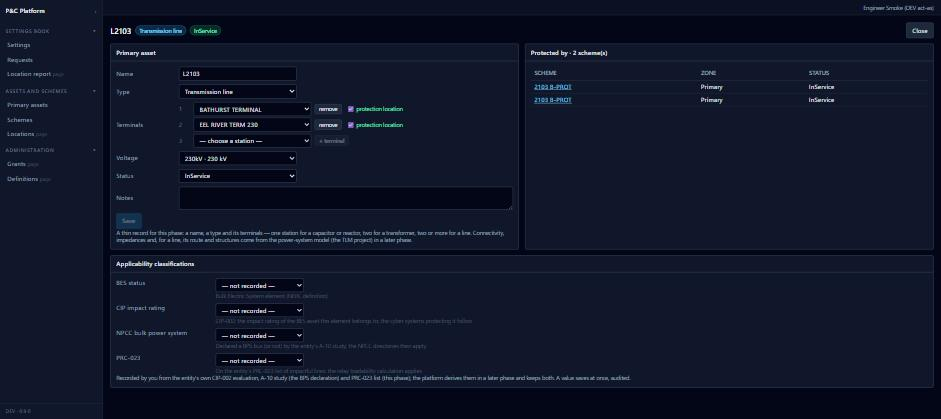
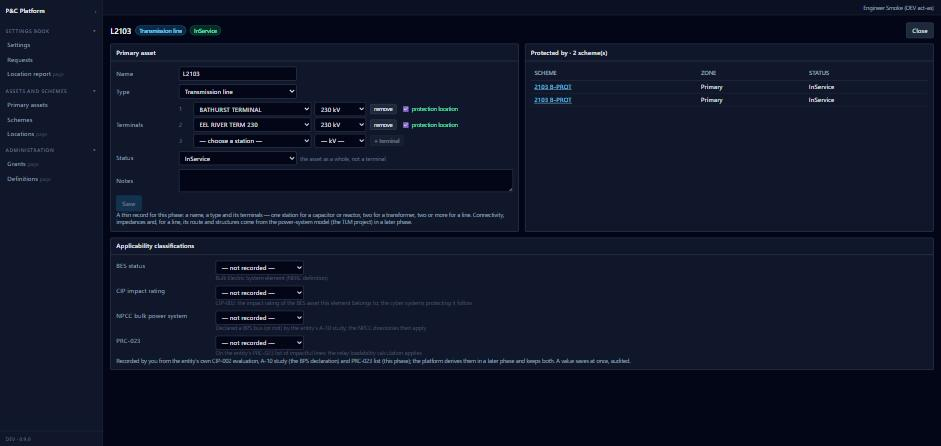
#170: the voltage is a terminal's (asset.AssetTerminal.VoltageClassCode, a drop-down beside each terminal); the asset-level voltage leaves the primary-asset form; the status stays the asset's
Owner, 2026-09-16: a transformer's terminals differ in voltage; '230kV · 230 kV' was one voltage shown twice. The lines'
terminals carry the voltage the owner had set on the asset.

Claude-Session: https://claude.ai/code/session_013TsNC7gxoDauT1p8dURK81

diff --git a/src/PnC.Web/src/screens/PrimaryAssetScreen.tsx b/src/PnC.Web/src/screens/PrimaryAssetScreen.tsx
@@ -71,7 +71,10 @@ const STATUSES = ['Planned', 'InService', 'OutOfService', 'Retired']
 function Terminals({ r, readOnly = false }: { r: Row; readOnly?: boolean }) {
   const qc = useQueryClient()
   const stationsQ = useViewAll('location', 'vNode', { NodeTypeCode: 'Station' }, 'Name')
+  const voltagesQ = useViewAll('ref', 'vVoltageClass', {}, 'DisplayOrder')
   const q = useViewAll('asset', 'vAssetTerminal', { AssetEntityId: s(r.EntityId) }, 'TerminalNo')
+  const [addVolt, setAddVolt] = useState('')
+  const voltageOptions = (voltagesQ.data ?? []).map((v) => <option key={s(v.VoltageClassCode)} value={s(v.VoltageClassCode)}>{v.NominalKv != null ? `${Number(v.NominalKv)} kV` : s(v.VoltageClassCode)}</option>)
   const [msg, setMsg] = useState<string | null>(null); const [adding, setAdding] = useState(''); const [busy, setBusy] = useState(false)
   const rows = q.data ?? []
   const done = (text: string) => { setMsg(text); qc.invalidateQueries({ queryKey: ['view', 'asset', 'vAssetTerminal'] }); qc.invalidateQueries({ queryKey: ['view', 'asset', 'vPrimaryAsset'] }) }
@@ -82,15 +85,16 @@ function Terminals({ r, readOnly = false }: { r: Row; readOnly?: boolean }) {
   const protectedHere = (id: unknown) => protectedIds.includes(s(id).toLowerCase())
   const strays = protectedIds.filter((id) => !rows.some((x) => s(x.StationNodeEntityId).toLowerCase() === id)).map(name)
   const mark = (on: boolean) => <span className={`ml-1 inline-flex items-center gap-1 text-xs ${on ? 'text-emerald-300' : 'text-slate-600'}`} title={on ? 'a scheme at this station protects the asset' : 'no scheme at this station names the asset'}><span aria-hidden="true">{on ? '☑' : '☐'}</span> protection location</span>
-  if (readOnly) return <span>{rows.length ? rows.map((x, i) => <span key={s(x.EntityId)}>{i > 0 ? ' – ' : ''}{name(x.StationNodeEntityId)}{mark(protectedHere(x.StationNodeEntityId))}</span>) : '—'}{strays.length > 0 && <span className="ml-2 text-xs text-amber-300">also protected from {strays.join(', ')} — not a terminal</span>}</span>
+  if (readOnly) return <span>{rows.length ? rows.map((x, i) => <span key={s(x.EntityId)}>{i > 0 ? ' – ' : ''}{name(x.StationNodeEntityId)}{x.VoltageClassCode ? <span className="ml-1 text-xs text-slate-400">{s(x.VoltageClassCode)}</span> : null}{mark(protectedHere(x.StationNodeEntityId))}</span>) : '—'}{strays.length > 0 && <span className="ml-2 text-xs text-amber-300">also protected from {strays.join(', ')} — not a terminal</span>}</span>
   return (
     <div className="space-y-1">
       {rows.map((x) => (
         <div key={s(x.EntityId)} className="flex items-center gap-2">
           <span className="w-6 text-xs text-slate-500">{s(x.TerminalNo)}</span>
-          <select className={`${inputClass} w-64`} value={s(x.StationNodeEntityId).toLowerCase()} disabled={busy} onChange={(e) => void run(() => proc('asset', 'AssetTerminal_Revise', { EntityId: x.EntityId, AssetEntityId: r.EntityId, TerminalNo: x.TerminalNo, StationNodeEntityId: e.target.value }), `terminal ${s(x.TerminalNo)}: ${name(e.target.value)}.`)}>
+          <select className={`${inputClass} w-64`} value={s(x.StationNodeEntityId).toLowerCase()} disabled={busy} onChange={(e) => void run(() => proc('asset', 'AssetTerminal_Revise', { EntityId: x.EntityId, AssetEntityId: r.EntityId, TerminalNo: x.TerminalNo, StationNodeEntityId: e.target.value, VoltageClassCode: x.VoltageClassCode ?? null }), `terminal ${s(x.TerminalNo)}: ${name(e.target.value)}.`)}>
             {(stationsQ.data ?? []).map((n) => <option key={s(n.EntityId)} value={s(n.EntityId).toLowerCase()}>{s(n.Name)}</option>)}
           </select>
+          <select className={`${inputClass} w-28`} value={s(x.VoltageClassCode)} disabled={busy} title="the voltage at this terminal" onChange={(e) => void run(() => proc('asset', 'AssetTerminal_Revise', { EntityId: x.EntityId, AssetEntityId: r.EntityId, TerminalNo: x.TerminalNo, StationNodeEntityId: x.StationNodeEntityId, VoltageClassCode: e.target.value || null }), `terminal ${s(x.TerminalNo)}: ${e.target.value || 'no voltage'}.`)}><option value="">— kV —</option>{voltageOptions}</select>
           <Button kind="mini" disabled={busy} onClick={() => void run(() => proc('asset', 'AssetTerminal_SoftDelete', { EntityId: x.EntityId }), `terminal ${s(x.TerminalNo)} removed.`)}>remove</Button>
           {mark(protectedHere(x.StationNodeEntityId))}
         </div>))}
@@ -98,7 +102,8 @@ function Terminals({ r, readOnly = false }: { r: Row; readOnly?: boolean }) {
       <div className="flex items-center gap-2">
         <span className="w-6 text-xs text-slate-500">{nextNo}</span>
         <select className={`${inputClass} w-64`} value={adding} disabled={busy} onChange={(e) => setAdding(e.target.value)}><option value="">— choose a station —</option>{(stationsQ.data ?? []).map((n) => <option key={s(n.EntityId)} value={s(n.EntityId).toLowerCase()}>{s(n.Name)}</option>)}</select>
-        <Button kind="mini" disabled={!adding || busy} onClick={() => void run(async () => { await proc('asset', 'AssetTerminal_Add', { AssetEntityId: r.EntityId, TerminalNo: nextNo, StationNodeEntityId: adding }); setAdding('') }, `terminal ${nextNo}: ${name(adding)}.`)}>+ terminal</Button>
+        <select className={`${inputClass} w-28`} value={addVolt} disabled={busy} title="the voltage at this terminal" onChange={(e) => setAddVolt(e.target.value)}><option value="">— kV —</option>{voltageOptions}</select>
+        <Button kind="mini" disabled={!adding || busy} onClick={() => void run(async () => { await proc('asset', 'AssetTerminal_Add', { AssetEntityId: r.EntityId, TerminalNo: nextNo, StationNodeEntityId: adding, VoltageClassCode: addVolt || null }); setAdding(''); setAddVolt('') }, `terminal ${nextNo}: ${name(adding)}${addVolt ? ' ' + addVolt : ''}.`)}>+ terminal</Button>
       </div>
       {msg && <div className="text-xs text-slate-400">{msg}</div>}
       {!rows.length && !q.isPending && <div className="text-xs text-slate-500">No terminal yet — a capacitor or reactor has one, a transformer two, a line two or more.</div>}
@@ -112,8 +117,7 @@ function Terminals({ r, readOnly = false }: { r: Row; readOnly?: boolean }) {
 function AssetForm({ r }: { r: Row }) {
   const qc = useQueryClient()
   const typesQ = useViewAll('ref', 'vAssetType', { AssetClassCode: 'Primary' })
-  const voltagesQ = useViewAll('ref', 'vVoltageClass', {})
-  const [f, setF] = useState({ Name: s(r.Name), AssetTypeCode: s(r.AssetTypeCode), VoltageClassCode: s(r.VoltageClassCode), Status: s(r.Status), Notes: s(r.Notes) })   // the terminals are t1 / t2 below
+  const [f, setF] = useState({ Name: s(r.Name), AssetTypeCode: s(r.AssetTypeCode), VoltageClassCode: s(r.VoltageClassCode), Status: s(r.Status), Notes: s(r.Notes) })   // the voltage is each terminal's (Terminals); the asset's own column is carried unchanged
   const [msg, setMsg] = useState<{ text: string; bad?: boolean } | null>(null); const [busy, setBusy] = useState(false)
   const dirty = f.Name !== s(r.Name) || f.AssetTypeCode !== s(r.AssetTypeCode) || f.VoltageClassCode !== s(r.VoltageClassCode) || f.Status !== s(r.Status) || f.Notes !== s(r.Notes)
   const save = async () => {
@@ -132,8 +136,7 @@ function AssetForm({ r }: { r: Row }) {
         <label className="text-slate-400">Name</label><input className={`${inputClass} w-64`} value={f.Name} onChange={set('Name')} placeholder="e.g. L0012" />
         <label className="text-slate-400">Type</label><select className={`${inputClass} w-64`} value={f.AssetTypeCode} onChange={set('AssetTypeCode')}>{(typesQ.data ?? []).map((t) => <option key={s(t.AssetTypeCode)} value={s(t.AssetTypeCode)}>{s(t.Name)}</option>)}</select>
         <label className="text-slate-400">Terminals</label><Terminals r={r} />
-        <label className="text-slate-400">Voltage</label><select className={`${inputClass} w-64`} value={f.VoltageClassCode} onChange={set('VoltageClassCode')}><option value="">—</option>{(voltagesQ.data ?? []).map((v) => <option key={s(v.VoltageClassCode)} value={s(v.VoltageClassCode)}>{s(v.VoltageClassCode)}{v.NominalKv != null ? ` · ${s(v.NominalKv)} kV` : ''}</option>)}</select>
-        <label className="text-slate-400">Status</label><select className={`${inputClass} w-64`} value={f.Status} onChange={set('Status')}>{STATUSES.map((x) => <option key={x}>{x}</option>)}</select>
+        <label className="text-slate-400">Status</label><span><select className={`${inputClass} w-64`} value={f.Status} onChange={set('Status')}>{STATUSES.map((x) => <option key={x}>{x}</option>)}</select><span className="ml-2 text-xs text-slate-500">the asset as a whole, not a terminal</span></span>
         <label className="text-slate-400">Notes</label><textarea className={`${inputClass} w-full`} rows={2} value={f.Notes} onChange={set('Notes')} />
       </div>
       <Button kind="primary" disabled={!dirty || busy} onClick={() => void save()}>Save</Button>
@@ -163,7 +166,7 @@ export default function PrimaryAssetScreen({ params: p, id }: { screen: Screen; 
       </header>
       <div className="grid gap-3 lg:grid-cols-2">
         <Panel title="Primary asset">
-          {editable ? <AssetForm r={r} /> : <Facts cols={1} pairs={[['Name', s(r.Name)], ['Type', s(r.AssetTypeName)], ['Terminals', <Terminals r={r} readOnly />], ['Voltage', s(r.VoltageClassCode) || '—'], ['Status', s(r.Status)], ['Notes', s(r.Notes) || '—']]} />}
+          {editable ? <AssetForm r={r} /> : <Facts cols={1} pairs={[['Name', s(r.Name)], ['Type', s(r.AssetTypeName)], ['Terminals', <Terminals r={r} readOnly />], ['Status', s(r.Status)], ['Notes', s(r.Notes) || '—']]} />}
           <Status>A thin record for this phase: a name, a type and its terminals — one station for a capacitor or reactor, two for a transformer, two or more for a line. Connectivity, impedances and, for a line, its route and structures come from the power-system model (the TLM project) in a later phase.</Status></Panel>
         <Panel title={`Protected by · ${protectedByQ.isPending ? '…' : (protectedByQ.data ?? []).length} scheme(s)`}>
           <DataGrid rows={protectedByQ.data ?? []} rowKey={(x) => s(x.EntityId)} emptyText="No scheme names this asset yet — on a scheme's page, “protects”." columns={[

diff --git a/docs/decisions/DECISION-LOG.md b/docs/decisions/DECISION-LOG.md
@@ -184,7 +184,7 @@ the owner's mark-up of requirements v0.1. `Schema review` is `docs/review/SCHEMA
 | 167 | **The settings record's columnless legacy fields are characteristics of the revision, in one seeded schema; the record screen is plain code.** `CharacteristicSchema.RecordTemplate` definition `SETTINGS_RECORD` (`Seed_config_CharacteristicSchema_SettingsRecord.sql`): class, use, responsibility, bulk power element, protection group, element, line type, number of relays under *Classification*; the four main and four auxiliary CT ratios and the two PT ratios under *Instrument transformers*. The record screen (`src/PnC.Web/src/screens/RecordScreen.tsx`, screen kind `record`, definition `SETTINGS_RECORD` naming only its view and key) lays out whatever the schema carries by display group, reads a migrated revision's values from its record summary until they are migrated into values, and saves a value on an **Outstanding** revision directly (`document.CharacteristicValue_Add` / `_Revise`, audited) — the direct save with audit of #163; an in-service or archived revision is the record and is read-only. The screen carries the 0.9.0 record page's every function (facts, notes, parsed settings, the text as filed, files and records, Compare) and replaces it; with the work item and the queue in React, `settings.html`, `requests.html`, `request.html` and `setting.html` are retired (service-worker shell `shell-10`). Rule applied (owner, 2026-09-15): a one-off screen is React with its constants, not a parameter grammar — the screen definition names the data and the kind, nothing more | The owner's ruling that these fields are characteristics ("no value in indexing, grouping etc. on them"); #163; #165 | W8 |
 | 168 | **The first device template: the SEL-221F carried to completion before any modern relay — the settings by function, a reader and a writer per vendor format proven by round trip, the template as the daily-value work.** The owner, 2026-09-16: engineers will not author JSON and procedures seldom change; what the staff use every day is the device — its settings grouped by function with the inputs the model has, the standard settings marked, the NERC/NPCC classifications, the compliance calculations and documentation ("everything needed to manage the device"). And the hard requirement: settings are edited **in the platform** and at implementation the platform **writes the manufacturer's native settings file** with no retyping; a vendor whose format cannot be written is excluded from procurement. Rulings: an aliases column on the setting definition; no standard settings for the 221F (deferred); the classification → requirement logic is generic (BCA → CIP, NPCC A-10 → Directory 4, the PRC-023 list → a loadability calculation from the settings) and how each is handled may be custom; the 221F's file is the name=value list in SET order. **Built (increment 1):** `config.SettingDefinition` + `DisplayOrder` (the SET order, the writer's order), `Aliases` (legacy spellings, matched case-insensitively) and `Format` (`decimal:N` / `integer` / `text` / `mask3`); `document.ParsedSetting` + `RawValue` (the value text as filed — what makes a platform-written file byte-identical on re-parse). `process.ParseSettingsText`: aliases, chained `A=B=C=value`, the `LOGIC SETTINGS:` marker, a malformed fragment (`PSVC=S 27VLO=40`, a separator missing) read at its first `=` and noted, a re-parse closes the prior reading in valid time. `process.RenderSettingsText` (new, the writer; `GET /api/v1/settings/{revision}/rendered`). `compliance.fSettingFactValue` reads `SettingsText` revisions too (every text-settings device's `device.settings.*` facts were NULL — a defect). **The template** (`tools/template_sel221f.py`, one source → `Seed_config_SettingsTemplate_SEL221F.sql` and `docs/design/examples/templates/sel-221f.template.md`, the artefact the owner reviews): 56 rows from the manual (IM 981207, `Z:\Archive-WorkingData-Cloud\Work\DATA\Manuals\SEL\221F-2-3-4_IM_19981207.pdf`) — ID, the 42 SET settings, BFIN1/BFTD (the -3/-4), the ten logic masks — grouped by the manual's Specifications headings (twelve groups; the Section-5 heading and page cites in each description; a first cut by the 22 Section-5 headings gave 22 tabs and was replaced), with unit, base, primary range, closed list (seven enumerations), ANSI function, aliases (`Z1`→`Z1%`, `RO`→`R0`, `XO`→`X0`, `Z3DP`→`Z3D`) and format; the manual's two internal inconsistencies (CTR 1–6000 vs 1–5000; 25DV 0–125 vs 0–150 secondary) recorded in the descriptions. Bound to the model codes `SEL-221F Z1-3=.125-64 OHMS` and `SEL-221F`; the `SEL-221S` codes are **not** bound (their texts carry 67ND and other names the 221F has not — a different relay, a finding, not a merge). `Seed_ref_AnsiFunction_Core.sql` gives the codes the template cites their C37.2 names (the migration had named them from legacy position text). **Migration:** the filed text is `SET1` + `", "` + `SETTINGS2` — the legacy split a list at 255 characters and #140 filed the head only (51 of the 53 Active 221F texts were truncated; the tail, with the logic masks, sat in the record summary). **The round trip** (`docs/schema/migration/roundtrip_settings.py`): for every revision `render(parse(text))` against the filed text — identical / values-equal (the differences listed: the legacy users typed 14 different orders and spellings) / mismatch; a platform-written file must be identical (the strict rule, increment 2). Before the reload, on DEV's 53 Active 221F texts: 19 identical, 34 values-equal, 0 mismatch. **The device sheet** (`DeviceSettings.tsx` inside `RecordScreen.tsx`, plain React per #167): what the relay does as function chips from the template's ANSI codes, the inputs from its ratio settings (the manual's words in the definitions), a tab per group with value / unit / range / out-of-range and the manual's words per setting, a SHOWSET-like listing, and the file the platform writes beside the file as filed; the generic instrument-transformer characteristics hidden when the template carries the ratios. Nothing per model in code: a template for another relay draws the same way. Data findings for the owner: the `SEL-221F` model code carries texts of other relays (ZD2L, Z3DG, TAP, T.D. — Partial); three texts are malformed at the source. Deferred to the next increments: editing in the platform and the M as a copy of the A filed as rendered text at the settings step (2); classifications and the generic obligation rules with the PRC-023 worked example, content from the owner (3). **Increment 2 (built 2026-09-16, evening):** `process.SetParsedSetting` (one value of an outstanding revision, read as the parser reads it — type, primary range, closed list — the prior row closed in valid time, audited with code/from/to; `ConfigurationFile.Modify` on the device over HTTP); `process.CopyRevisionAsDraft` (at the request step, every device named by a captured Device set gets a draft copied from its in-service revision, parsed, in the package — the legacy M from the A, Outstanding at once); `process.IssueRenderedSettings` + `process.RefileRevision` (a settings step committed with no file writes the draft's rows as the model's text and files it as the revision's Native file, replacing the copy's, then reads its own file back through the parser — the round trip in place; `evidence.required` is satisfied by the platform-written file; a vendor file attached over the copy re-files the copy, one outstanding revision per device per package); the edit cell on the device sheet. Proven twice: the smoke's #168 section on the BDD15B fixture, and the owner's four steps on Bathurst 0012 B-PROT SEL-221F through the screens (`evidence/W8-fourstep-221f-*.jpg`): request → revision 3 outstanding as a copy of revision 2 → Z1% edited 21→22 on the sheet (three audited edits) → rationale attached, settings step committed with no file: `A0523_875199 (2).txt`, 510 bytes, byte-identical to the rendered text, re-read Parsed → hold released → installed as the technician → completed: revision 3 in service from 13:12, revision 2 archived, the request Closed; the Active round trip then reads 1 identical (the platform's file), 52 values-equal, 0 mismatch. **The fresh DEV reload** (`RECONCILIATION-2026-09-16-DEV.md`): 437 358 rows in 7 304 s, second pass 0; every text SET1+SETTINGS2 (11 554 equal, 0 differ); 949 revisions parsed; the 221F round trip 181 revisions values-equal, 0 mismatch, 0 unparsed after template v4 (alias MT0), the parser's tolerant marker, the missing-separator rule (a space, a known name and '=' is a comma the legacy user missed — noted per record) and the refined chain rule (a misspelt single word in a chain is a typo, the other names keep the value); the round-trip tool compares the filed text with the stored rows, not with a re-parse of the rendered text, which had hidden a lost chain. Parser rules and their tests live in `ParseSettingsText.sql` / `roundtrip_settings.py`; the data findings (typos, foreign texts under the `SEL-221F` code, missing separators) are the records' own, listed in the reconciliation | The owner's direction and rulings of 2026-09-16; the manual; the DEV survey of the 221F texts; agrees with #61 (a per-model template) and extends it with the writer; supersedes the reading that data flows only from the device file to the platform | W8 |
 | 169 | **A hand-written read model reads its lookups from the base tables in the current-row form, never through a generated current view; a scoped read of a materialised read model pins its join order.** Found on the reloaded DEV estate (2026-09-16): `document.vSettingsRecord` joined `work.vWorkRequest` and `process.vWorkflowInstance` (generated current views, ROW_NUMBER over the entity) and the optimizer evaluated the request view once per outer row — the whole WorkRequest table scanned and sorted 11 572 times, 137 million rows, 48 s for the view that had run in 1–6 s the day before (a plan the fresh statistics flipped). Rewritten as `OUTER APPLY … WHERE ValidTo IS NULL AND IsDeleted = 0 … ORDER BY RowSeq DESC` (the filtered indexes' own form, as the view's other lookups already were): 1.2 s. Then the API's scoped form of the same read (the readable set joined to the view, `OPTION (RECOMPILE)`, #158) still ran past 200 s in every free shape — join, `IN`, a table variable — because the optimizer drove the view's correlated lookups from the readable set (6 879 assets); `FORCE ORDER` (or a hash-join hint) kept the written order, the view first, and measured 1.7 s. `SqlSession` now adds `FORCE ORDER` to the recompiled scoped read of the views in `MaterialiseBeforePaging` (the hand-written read models); generated views keep the optimizer's freedom. The settings grid through the API: 1.6 s (500 rows). Also: a copy made at the request step belongs to its request before any record points at it — the view finds the request through the request-confirmation record that names the package (`prec`), so the work item lists the copy at once. **The record screen's sections are tabs (owner, 2026-09-16, on seeing the sheet): Settings, Classification, Notes, Text as filed, Files and records, Compare — nothing sits under the settings tabs whatever tab is chosen (it read as part of the settings). Follow-up recorded: a copy made at the request step shows an empty Classification because a migrated revision's class/use/responsibility live in its record summary, not in characteristic values (#167); migrating them into values is the fix, then `CopyRevisionAsDraft` carries them | The measurements of 2026-09-16 (actual plans read from `SET STATISTICS XML`); agrees with #158 (the join form) and refines it; the NFR-2 rule | W8 |
-| 170 | **Applicability classifications belong to the primary asset a scheme protects, not to the relay; in this phase a person records them, a later phase derives them; the primary-asset registry is thin.** The owner, 2026-09-16, in three steps. (1) Whether a relay is a BES Cyber Asset for CIP is only partly about the device (a cyber device or not); the deciding criterion is the importance of the primary asset it protects in its station — the CIP-002 evaluation under the entity's procedure puts primary assets in scope and every other CIP standard follows; NPCC is the same shape: the A-10 study, repeated on an interval, lists the impactful busses and the directories apply to what sits at them. (2) The CIP-002 procedure and the A-10 derivation are a project of their own, wanted but not this phase: the values are set by a person for now, from the entity's own lists, in a way that leaves the derivation, its schedule and its reporting to slot in without rework. (3) The classification belongs to the primary asset the device is assigned to protect; transmission lines will come from the owner's TLM project (structure coordinates; Carson's equations still to do), transformers, busses and connectivity are not modelled yet, and modelling the power system is not this phase. **Built:** asset types Line, Transformer, Bus, Breaker, Generator, Capacitor, Reactor and System (the asset a RAS or other system-protection scheme protects — the owner: a system protection has no single primary element), class Primary, not devices, a line not routed until TLM supplies its route (`Seed_ref_AssetType_Primary.sql`); the PRC-023 classification kind beside BesStatus, CipImpactRating and NpccBulkPowerSystem (the seeded NpccA10 kind retired the same evening — the owner: "NPCC bulk power system and NPCC A-10 are the same thing; A-10 is the study document that determines whether a bus is declared as an NPCC BPS bus or not" — one kind, the study as its basis); `asset.vPrimaryAsset` (the asset, its station through its placement, its current classifications summarised); `asset.RecordClassification` (one current value per subject and kind, `Basis = Recorded`, the person and the instant, optionally the list or study as the reference document; a new value revises, an empty one withdraws; audited; `Asset.Modify` on the subject over HTTP); the `SCHEME` screen (members; "protects": pick a primary asset at the scheme's station or create one — a name, a type, the station, nothing more — with its zone role; `scheme.SchemeProtects_Add/_SoftDelete`) and the `PRIMARY_ASSET` screen (where it is, the schemes protecting it, the classifications in the standards' own words — CIP High/Medium/Low/None, BES/Not BES, BPS/Not BPS, Listed/Not listed — never a yes/no that would need re-encoding); the device sheet's Where panel shows "protects <asset> via <scheme>" with the inherited classifications and links to both. Shown on DEV: Line 0012 created at Bathurst Terminal from the 0012 B-PROT scheme's page, protected primary, CIP impact Medium and A-10 Impactful recorded by the engineer, the device sheet of 0012 B-PROT reading them through its scheme (`evidence/W8-scheme-protects-line-0012.jpg`, `W8-primary-asset-line-0012-classified.jpg`, `W8-record-protects-inherited.jpg`); the smoke's #170 section (a line at the fixture station, recorded, revised, withdrawn, the history kept, ReadOnly refused). **Not built, by the ruling:** the derivation (`Program.ClassificationDerivation` stays a kind row), the flow-down from station or bus to the elements at it, the CIP-002 procedure, the A-10 schedule; the estate's primary assets themselves (none migrated — the legacy data never held them; entered per scheme by the group, or created from the scheme names by rule once the owner confirms the naming on a sample, or imported from TLM when it joins). The obligation rules (BCA → CIP set, A-10 → Directory 4, PRC-023 → loadability) read the classification whatever its basis and are the next increment, with the requirement sets, thresholds and the line-rating source from the owner. **Same evening, from the owner's use of it:** (a) the primary asset's own fields are editable on its page (`asset.Asset_Revise`; "Line 0012" should have been L0012 — the group's L-number form); voltage classes 69/138/230/345 kV seeded. (b) **A primary asset has as many terminals as it has** — the owner: a capacitor or reactor one, a transformer two, a transmission line could theoretically have n; "three terminal lines will have two line numbers"; entered with a "+ terminal" button, a station each: the first cut placed a primary asset at the station whose scheme created it, which showed Eel River on a line the Bathurst scheme also protects and confused; a placement is a device's (one Installed asset per node; a routed asset has none). Replaced by `asset.AssetTerminal` — terminals numbered 1, 2, …, each a station, one current row per asset and terminal number — added, changed and removed on the asset's page (each change saved and audited at once) and, at creation from a scheme, terminal 1 = that scheme's station; the read model shows the terminals and, as a cross-check, the stations of the schemes that protect it ("protected from" — a scheme at a station that is not a terminal is a data error). Node.Path is the ancestors' chain without the node's own id (the first station lookup matched every station). L0012 and L2103 given their terminals and their first-cut placements closed | The owner's three rulings of 2026-09-16 (recorded in memory as `feedback-applicability-from-primary-assets`); the schema's existing `asset.Classification` (subject Node/Asset/Scheme, Basis Recorded/Derived, reference document, determination) and `scheme.SchemeProtects`; agrees with #68 (classification carried) and defers its derivation | W8 |
+| 170 | **Applicability classifications belong to the primary asset a scheme protects, not to the relay; in this phase a person records them, a later phase derives them; the primary-asset registry is thin.** The owner, 2026-09-16, in three steps. (1) Whether a relay is a BES Cyber Asset for CIP is only partly about the device (a cyber device or not); the deciding criterion is the importance of the primary asset it protects in its station — the CIP-002 evaluation under the entity's procedure puts primary assets in scope and every other CIP standard follows; NPCC is the same shape: the A-10 study, repeated on an interval, lists the impactful busses and the directories apply to what sits at them. (2) The CIP-002 procedure and the A-10 derivation are a project of their own, wanted but not this phase: the values are set by a person for now, from the entity's own lists, in a way that leaves the derivation, its schedule and its reporting to slot in without rework. (3) The classification belongs to the primary asset the device is assigned to protect; transmission lines will come from the owner's TLM project (structure coordinates; Carson's equations still to do), transformers, busses and connectivity are not modelled yet, and modelling the power system is not this phase. **Built:** asset types Line, Transformer, Bus, Breaker, Generator, Capacitor, Reactor and System (the asset a RAS or other system-protection scheme protects — the owner: a system protection has no single primary element), class Primary, not devices, a line not routed until TLM supplies its route (`Seed_ref_AssetType_Primary.sql`); the PRC-023 classification kind beside BesStatus, CipImpactRating and NpccBulkPowerSystem (the seeded NpccA10 kind retired the same evening — the owner: "NPCC bulk power system and NPCC A-10 are the same thing; A-10 is the study document that determines whether a bus is declared as an NPCC BPS bus or not" — one kind, the study as its basis); `asset.vPrimaryAsset` (the asset, its station through its placement, its current classifications summarised); `asset.RecordClassification` (one current value per subject and kind, `Basis = Recorded`, the person and the instant, optionally the list or study as the reference document; a new value revises, an empty one withdraws; audited; `Asset.Modify` on the subject over HTTP); the `SCHEME` screen (members; "protects": pick a primary asset at the scheme's station or create one — a name, a type, the station, nothing more — with its zone role; `scheme.SchemeProtects_Add/_SoftDelete`) and the `PRIMARY_ASSET` screen (where it is, the schemes protecting it, the classifications in the standards' own words — CIP High/Medium/Low/None, BES/Not BES, BPS/Not BPS, Listed/Not listed — never a yes/no that would need re-encoding); the device sheet's Where panel shows "protects <asset> via <scheme>" with the inherited classifications and links to both. Shown on DEV: Line 0012 created at Bathurst Terminal from the 0012 B-PROT scheme's page, protected primary, CIP impact Medium and A-10 Impactful recorded by the engineer, the device sheet of 0012 B-PROT reading them through its scheme (`evidence/W8-scheme-protects-line-0012.jpg`, `W8-primary-asset-line-0012-classified.jpg`, `W8-record-protects-inherited.jpg`); the smoke's #170 section (a line at the fixture station, recorded, revised, withdrawn, the history kept, ReadOnly refused). **Not built, by the ruling:** the derivation (`Program.ClassificationDerivation` stays a kind row), the flow-down from station or bus to the elements at it, the CIP-002 procedure, the A-10 schedule; the estate's primary assets themselves (none migrated — the legacy data never held them; entered per scheme by the group, or created from the scheme names by rule once the owner confirms the naming on a sample, or imported from TLM when it joins). The obligation rules (BCA → CIP set, A-10 → Directory 4, PRC-023 → loadability) read the classification whatever its basis and are the next increment, with the requirement sets, thresholds and the line-rating source from the owner. **Same evening, from the owner's use of it:** (a) the primary asset's own fields are editable on its page (`asset.Asset_Revise`; "Line 0012" should have been L0012 — the group's L-number form); voltage classes 69/138/230/345 kV seeded. (b) **A primary asset has as many terminals as it has** — the owner: a capacitor or reactor one, a transformer two, a transmission line could theoretically have n; "three terminal lines will have two line numbers"; entered with a "+ terminal" button, a station and a voltage each (a transformer's terminals differ; the asset-level voltage column is not used for primary assets), and a "protection location" mark per terminal lit by the platform when a scheme at that station names the asset (the owner asked for a checkbox; a derived mark cannot disagree with the schemes); a scheme at a station that is no terminal is flagged: the first cut placed a primary asset at the station whose scheme created it, which showed Eel River on a line the Bathurst scheme also protects and confused; a placement is a device's (one Installed asset per node; a routed asset has none). Replaced by `asset.AssetTerminal` — terminals numbered 1, 2, …, each a station, one current row per asset and terminal number — added, changed and removed on the asset's page (each change saved and audited at once) and, at creation from a scheme, terminal 1 = that scheme's station; the read model shows the terminals and, as a cross-check, the stations of the schemes that protect it ("protected from" — a scheme at a station that is not a terminal is a data error). Node.Path is the ancestors' chain without the node's own id (the first station lookup matched every station). L0012 and L2103 given their terminals and their first-cut placements closed | The owner's three rulings of 2026-09-16 (recorded in memory as `feedback-applicability-from-primary-assets`); the schema's existing `asset.Classification` (subject Node/Asset/Scheme, Basis Recorded/Derived, reference document, determination) and `scheme.SchemeProtects`; agrees with #68 (classification carried) and defers its derivation | W8 |
 | 122 | **The in-browser gate is observed by the session in Chrome and kept as a screenshot** (`docs/workflow/evidence/`); the smoke asserts what HTTP can — the files served under the CSP with no inline script or style, the editor files in the shell list, the dry run's answers and their paths, the read-back as text, the refusal, the unchanged version count | No browser automation is part of the smoke (W1's browser claim was an observation too); a screenshot a later reader can see is the evidence the workflow's "observed, not asserted" rule asks for | W5 |
 
 ---
